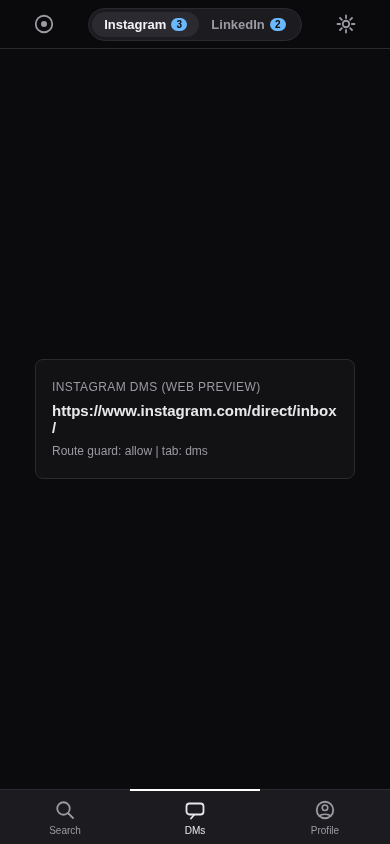
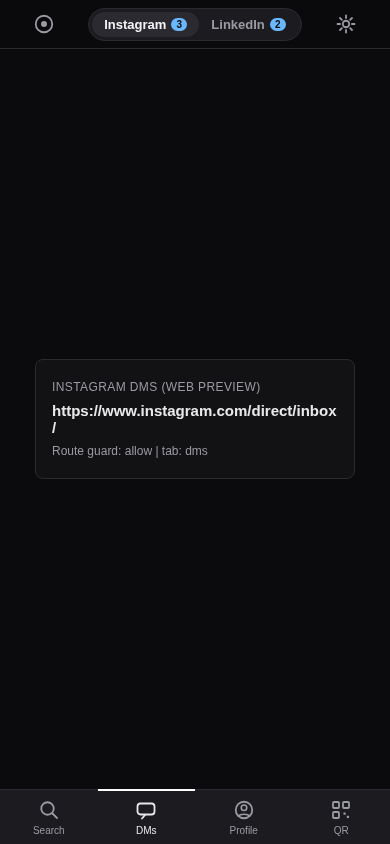
feat(qr): Instagram My code on a QR tab (S1)
A fourth QR tab on the Instagram side shows the My code panel, the same
screen design as the LinkedIn one: a 240px QR of the profile URL, black on
white with a 16px quiet zone, the link in muted text and a Share link
button. The URL is built from the saved or detected username by a new pure
builder that falls back to the empty state for unusable names, and the
empty state detour opens the Profile tab so detection can fill the code.

diff --git a/src/app/index.tsx b/src/app/index.tsx
@@ -11,7 +11,10 @@ import { router } from 'expo-router';
 import { AppSwitcher, type AppKey } from '@/components/AppSwitcher';
 import { BottomBar, type BottomTab } from '@/components/BottomBar';
 import { Header } from '@/components/Header';
-import { IconAvatar, IconChat, IconGear, IconSearch, IconStories } from '@/components/icons';
+import { IconAvatar, IconChat, IconGear, IconQr, IconSearch, IconStories } from '@/components/icons';
+import { MyCode } from '@/qr/MyCode';
+import { buildInstagramProfileUrl } from '@/qr/instagramUrl';
+
 import { InstagramHost, INSTAGRAM_HOME_URL, INSTAGRAM_LOGOUT_URL, INSTAGRAM_ROOT_URL, type InstagramHostHandle } from '@/hosts/InstagramHost';
 import { LinkedInHost } from '@/hosts/LinkedInHost';
 import type { PageMessage } from '@/inject/protocol';
@@ -19,7 +22,7 @@ import { tickHaptic } from '@/state/haptics';
 import { getStoreState, updateSettings, useStoreState } from '@/state/store';
 import { colors } from '@/theme/tokens';
 
-type InstagramTab = 'search' | 'dms' | 'profile';
+type InstagramTab = 'search' | 'dms' | 'profile' | 'qr';
 
 const DEFAULT_TAB: InstagramTab = 'dms';
 
@@ -28,6 +31,9 @@ const TAB_DEFAULT_URLS: Record<InstagramTab, string> = {
   dms: INSTAGRAM_HOME_URL,
   // Until the username is known, the profile tab opens account settings.
   profile: 'https://www.instagram.com/accounts/edit/',
+  // The QR tab carries no page of its own: the My code panel (S1) covers the
+  // inbox page underneath, the same pattern as the LinkedIn QR tab.
+  qr: INSTAGRAM_HOME_URL,
 };
 
 function initialTabUrls(): Record<InstagramTab, string> {
@@ -52,10 +58,20 @@ function initialUnread(): { instagram: number; linkedin: number } {
   };
 }
 
+function initialPreviewUsername(): string | null {
+  // Web preview only: seeds the Instagram My code panel so the screen tests
+  // can capture it. On a phone the username comes from page detection or the
+  // settings row, the same split as the unread seeding above.
+  if (Platform.OS !== 'web') return null;
+  const value = new URLSearchParams(window.location.search).get('igUsername');
+  return value && value.trim() ? value.trim() : null;
+}
+
 const INSTAGRAM_TABS: BottomTab<InstagramTab>[] = [
   { key: 'search', label: 'Search', icon: (color) => <IconSearch color={color} /> },
   { key: 'dms', label: 'DMs', icon: (color) => <IconChat color={color} /> },
   { key: 'profile', label: 'Profile', icon: (color) => <IconAvatar color={color} /> },
+  { key: 'qr', label: 'QR', icon: (color) => <IconQr color={color} /> },
 ];
 
 function pathOf(url: string): string | null {
@@ -110,7 +126,11 @@ export default function Index() {
   // A scanned Instagram link (T4, charter 8.7) overrides the tab URL until a
   // bottom tab is pressed, like the stories override below.
   const [scannedUrl, setScannedUrl] = useState<string | null>(null);
+  const [previewIgUsername] = useState<string | null>(initialPreviewUsername);
   const hostRef = useRef<InstagramHostHandle | null>(null);
+  // My code empty state (S1): the profile tab page load lets the injected
+  // script detect the username, and the panel comes back when it arrives.
+  const returnToQrRef = useRef(false);
 
   // Stored settings arrive a moment after launch: jump to the app Denis left
   // (charter section 6, lastApp). Hosts render once hydration settles, so the
@@ -168,11 +188,24 @@ export default function Index() {
     setActiveApp('instagram');
   }, []);
 
+  // My code empty state (S1): open the profile tab, whose page load lets the
+  // injected script post the username (section 8.5); the QR panel returns
+  // when it does.
+  const findInstagramProfile = useCallback((): void => {
+    returnToQrRef.current = true;
+    setScannedUrl(null);
+    setActiveTab('profile');
+  }, []);
+
   // The page reported the username (section 8.5): the profile tab opens it
   // and the settings screen shows it (auto-detected, editable, charter 6).
   const handleUsernameDetected = useCallback((value: string): void => {
     const url = `https://www.instagram.com/${value}/`;
     setTabUrls((prev) => (prev.profile === url ? prev : { ...prev, profile: url }));
+    if (returnToQrRef.current) {
+      returnToQrRef.current = false;
+      setActiveTab('qr');
+    }
     if (getStoreState().settings.igUsername !== value) updateSettings({ igUsername: value });
   }, []);
 
@@ -291,11 +324,20 @@ export default function Index() {
           <InstagramHost
             ref={hostRef}
             url={stories ? INSTAGRAM_ROOT_URL : (scannedUrl ?? tabUrls[activeTab])}
-            context={stories ? 'stories' : (scannedUrl ? 'profile' : activeTab)}
+            context={stories ? 'stories' : (scannedUrl ? 'profile' : activeTab === 'qr' ? 'dms' : activeTab)}
             settings={settings}
             onMessage={handleMessage}
             scrollToTopSignal={scrollSignal}
           />
+        ) : null}
+        {activeTab === 'qr' && !stories ? (
+          <View style={styles.qrPanel}>
+            <MyCode
+              profileUrl={buildInstagramProfileUrl(previewIgUsername ?? settings.igUsername)}
+              emptyMessage="No Instagram profile link saved yet."
+              onFindProfile={findInstagramProfile}
+            />
+          </View>
         ) : null}
         <BottomBar tabs={INSTAGRAM_TABS} active={activeTab} onSelect={selectTab} />
       </View>
@@ -321,4 +363,12 @@ const styles = StyleSheet.create({
   hostArea: { flex: 1 },
   hidden: { display: 'none' },
   headerButton: { padding: 8 },
+  qrPanel: {
+    position: 'absolute',
+    top: 0,
+    left: 0,
+    right: 0,
+    bottom: 0,
+    backgroundColor: colors.bg,
+  },
 });

diff --git a/tests/screens/instagram.spec.ts b/tests/screens/instagram.spec.ts
@@ -38,6 +38,26 @@ test.describe('instagram screens at phone size', () => {
   });
 });
 
+// Instagram My code (stretch S1): the fourth Instagram tab shows the profile
+// QR, seeded on the web preview with the ?igUsername= param, the same split
+// as the unread seeds in the shell.
+test.describe('instagram my code at phone size', () => {
+  test('my code shows the profile QR for the detected username', async ({ page }) => {
+    await page.goto(`/?igUsername=${encodeURIComponent('denis')}`);
+    await page.getByRole('tab', { name: 'QR tab' }).click();
+    await expect(page.getByTestId('my-code-qr')).toBeVisible();
+    await expect(page.getByText('https://www.instagram.com/denis/')).toBeVisible();
+    await page.screenshot({ path: screenshot('s1-instagram-my-code.png') });
+  });
+
+  test('my code empty state offers the profile detour', async ({ page }) => {
+    await page.goto('/');
+    await page.getByRole('tab', { name: 'QR tab' }).click();
+    await expect(page.getByText('No Instagram profile link saved yet.')).toBeVisible();
+    await page.screenshot({ path: screenshot('s1-instagram-my-code-empty.png') });
+  });
+});
+
 // The QA evidence platform requires a 720px shorter edge minimum, so the same
 // four screens are captured wider; the charter phone captures stay above.
 test.describe('qa capture', () => {
@@ -62,5 +82,19 @@ test.describe('qa capture', () => {
     await page.getByRole('button', { name: 'Stories' }).click();
     await expect(page.getByText('tab: stories')).toBeVisible();
     await page.screenshot({ path: screenshot('t2-instagram-stories-720.png') });
+  });
+
+  test('instagram my code at the qa evidence size', async ({ page }) => {
+    await page.goto(`/?igUsername=${encodeURIComponent('denis')}`);
+    await page.getByRole('tab', { name: 'QR tab' }).click();
+    await expect(page.getByTestId('my-code-qr')).toBeVisible();
+    await page.screenshot({ path: screenshot('s1-instagram-my-code-720.png') });
+  });
+
+  test('instagram my code empty state at the qa evidence size', async ({ page }) => {
+    await page.goto('/');
+    await page.getByRole('tab', { name: 'QR tab' }).click();
+    await expect(page.getByText('No Instagram profile link saved yet.')).toBeVisible();
+    await page.screenshot({ path: screenshot('s1-instagram-my-code-empty-720.png') });
   });
 });

diff --git a/tests/unit/shell.test.tsx b/tests/unit/shell.test.tsx
@@ -150,3 +150,35 @@ test('haptics follow the settings toggle', async () => {
   fireEvent.press(getByLabelText('Instagram'));
   expect(Haptics.impactAsync).not.toHaveBeenCalled();
 });
+
+// Instagram My code (stretch S1): a fourth Instagram tab whose panel shows
+// the profile QR, the same screen design as the LinkedIn one (charter 14).
+describe('Instagram My code', () => {
+  test('the QR tab shows the profile QR for the saved username', async () => {
+    await AsyncStorage.setItem(
+      SETTINGS_KEY,
+      JSON.stringify({ ...DEFAULT_SETTINGS, igUsername: 'denis' }),
+    );
+    await hydrateSettings();
+    const { getByLabelText, getByTestId, getByText } = render(<Shell />);
+    fireEvent.press(getByLabelText('QR tab'));
+    expect(getByTestId('my-code-qr')).toBeTruthy();
+    expect(getByText('https://www.instagram.com/denis/')).toBeTruthy();
+    // The panel is an overlay: the host and its WebView stay mounted.
+    expect(getByTestId('webview-instagram', anyVisibility)).toBeTruthy();
+    expect(isHidden(getByTestId('host-instagram', anyVisibility))).toBe(false);
+  });
+
+  test('without a username the panel offers the profile detour', async () => {
+    await hydrateSettings();
+    const { getByLabelText, getByText } = render(<Shell />);
+    fireEvent.press(getByLabelText('QR tab'));
+    expect(getByText('No Instagram profile link saved yet.')).toBeTruthy();
+    fireEvent.press(getByLabelText('Find my profile'));
+    // The detour opens the profile tab, whose page load lets the injected
+    // script report the username; the panel returns when it does.
+    expect(getByLabelText('Profile tab').props.accessibilityState).toEqual(
+      expect.objectContaining({ selected: true }),
+    );
+  });
+});

diff --git a/tests/unit/instagram-url.test.ts b/tests/unit/instagram-url.test.ts
@@ -1,0 +1,36 @@
+// Charter stretch S1: the Instagram My code QR encodes the profile URL built
+// from the saved username. The builder is the only new logic, so these cover
+// its contract: clean values, the @ and whitespace forms the settings row
+// allows, and everything that must fall back to the empty state.
+
+import { buildInstagramProfileUrl } from '../../src/qr/instagramUrl';
+
+test.each([
+  ['denis', 'https://www.instagram.com/denis/'],
+  ['denis.popov', 'https://www.instagram.com/denis.popov/'],
+  ['denis_popov', 'https://www.instagram.com/denis_popov/'],
+  ['@denis', 'https://www.instagram.com/denis/'],
+  ['  denis  ', 'https://www.instagram.com/denis/'],
+  ['/denis/', 'https://www.instagram.com/denis/'],
+  ['Denis', 'https://www.instagram.com/Denis/'],
+  ['a', 'https://www.instagram.com/a/'],
+])('builds the profile URL from %s', (username, expected) => {
+  expect(buildInstagramProfileUrl(username)).toBe(expected);
+});
+
+test.each([
+  ['', 'empty'],
+  ['   ', 'whitespace only'],
+  ['@@denis', 'double @'],
+  ['de/nis', 'slash inside'],
+  ['den is', 'space inside'],
+  ['denis?', 'query mark'],
+  ['averyveryverylongusernamethatiswayoverthirtychars', 'over 30 chars'],
+])('returns null for an unusable username: %s (%s)', (username) => {
+  expect(buildInstagramProfileUrl(username)).toBeNull();
+});
+
+test('returns null when the username is null or undefined', () => {
+  expect(buildInstagramProfileUrl(null)).toBeNull();
+  expect(buildInstagramProfileUrl(undefined)).toBeNull();
+});

diff --git a/src/qr/instagramUrl.ts b/src/qr/instagramUrl.ts
@@ -1,0 +1,19 @@
+// Instagram profile URL builder (charter stretch S1): the My code QR encodes
+// https://www.instagram.com/<username>/. Usernames arrive from page detection
+// or the settings row, so the value is sanitized first: whitespace trimmed,
+// a leading @ removed, wrapping slashes removed, and only the characters
+// Instagram itself allows kept (letters, digits, dots, underscores, 1 to 30).
+// Anything else returns null, which the My code screen shows as its empty
+// state instead of a broken code.
+
+const USERNAME_PATTERN = /^[A-Za-z0-9._]{1,30}$/;
+
+export function buildInstagramProfileUrl(username: string | null | undefined): string | null {
+  if (!username) return null;
+  const cleaned = username
+    .trim()
+    .replace(/^@/, '')
+    .replace(/^\/+|\/+$/g, '');
+  if (!USERNAME_PATTERN.test(cleaned)) return null;
+  return `https://www.instagram.com/${cleaned}/`;
+}

diff --git a/src/qr/MyCode.tsx b/src/qr/MyCode.tsx
@@ -11,13 +11,16 @@ import { colors, radius } from '../theme/tokens';
 interface MyCodeProps {
   profileUrl: string | null;
   onFindProfile: () => void;
+  /** Empty state copy; the LinkedIn wording is the default (S1 passes the
+   * Instagram wording from its own side of the app). */
+  emptyMessage?: string;
 }
 
-export function MyCode({ profileUrl, onFindProfile }: MyCodeProps) {
+export function MyCode({ profileUrl, onFindProfile, emptyMessage = 'No LinkedIn profile link saved yet.' }: MyCodeProps) {
   if (!profileUrl) {
     return (
       <EmptyState
-        message="No LinkedIn profile link saved yet."
+        message={emptyMessage}
         actionLabel="Find my profile"
         onAction={onFindProfile}
       />

diff --git a/ASSUMPTIONS.md b/ASSUMPTIONS.md
@@ -26,4 +26,8 @@ One line per decision made where the master document did not decide for us.
 22. The userscripts have no settings UI, so the inject settings fall back to the defaults in src/inject/protocol.ts (allowSharedPosts on, hideCounts off). A browser user who wants different defaults edits that file and rebuilds.
 23. The userscript @version is a dedicated USERSCRIPT_VERSION (1.0.0 in src/userscript/header.ts), separate from the inject bundle version tag, so managers like Tampermonkey can detect updates. Bump it whenever a rebuild changes a userscript.
 24. Userscript parity is enforced two ways: the committed file body must be byte identical to the generated inject bundle, and the body's decide() must equal native decide() over both full URL tables. Anything that rebuilds the userscripts therefore cannot drift from the app.
+25. S1 puts the Instagram My code on a fourth QR tab at the right of the Instagram bottom bar (Search, DMs, Profile, QR), shown as a panel over the inbox page, the same pattern as the LinkedIn QR tab. Charter section 8.6 fixed the Instagram bar at three tabs; S1 adds a feature the charter does not place, and appending at the right keeps the original three positions unchanged.
+26. The Instagram QR encodes the URL built by src/qr/instagramUrl.ts from the saved username: whitespace trimmed, one leading @ and wrapping slashes removed, only letters, digits, dots and underscores, 1 to 30 characters. Anything else returns null and the screen shows the empty state instead of a broken code.
+27. The Instagram My code empty state detour opens the Profile tab (the account editor while the username is unknown), and the panel comes back on its own when the injected script posts the ig-username message (section 8.5). It is the Instagram twin of the LinkedIn /in/me/ find flow, with detection instead of a redirect as the return signal.
+28. The web preview seeds the Instagram My code with an ?igUsername= URL parameter, the same pattern as the ?profile= and unread seeds, so the screen tests can capture the panel without storage.
 
